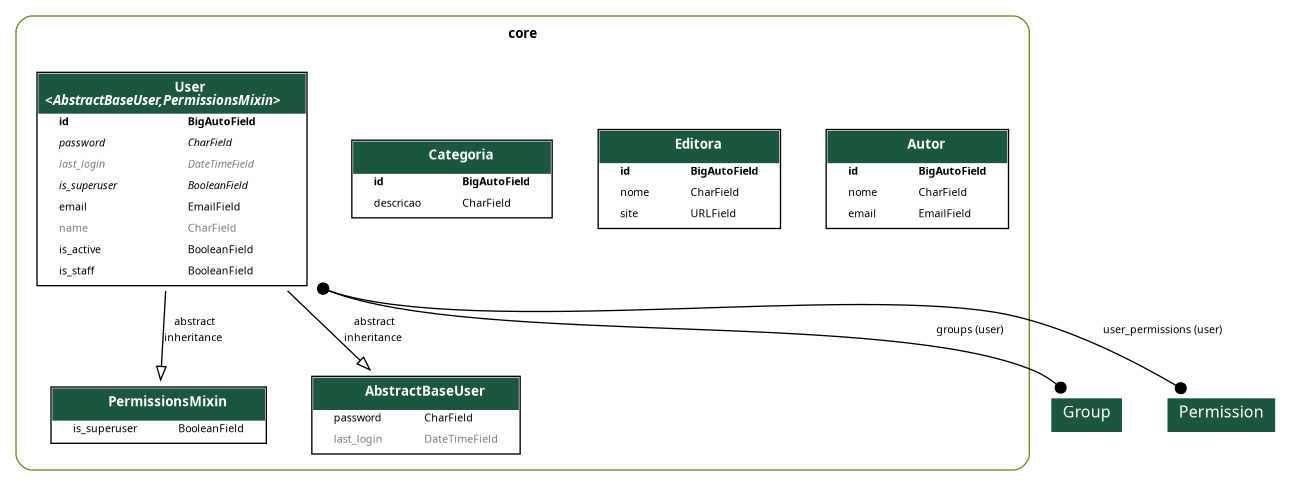
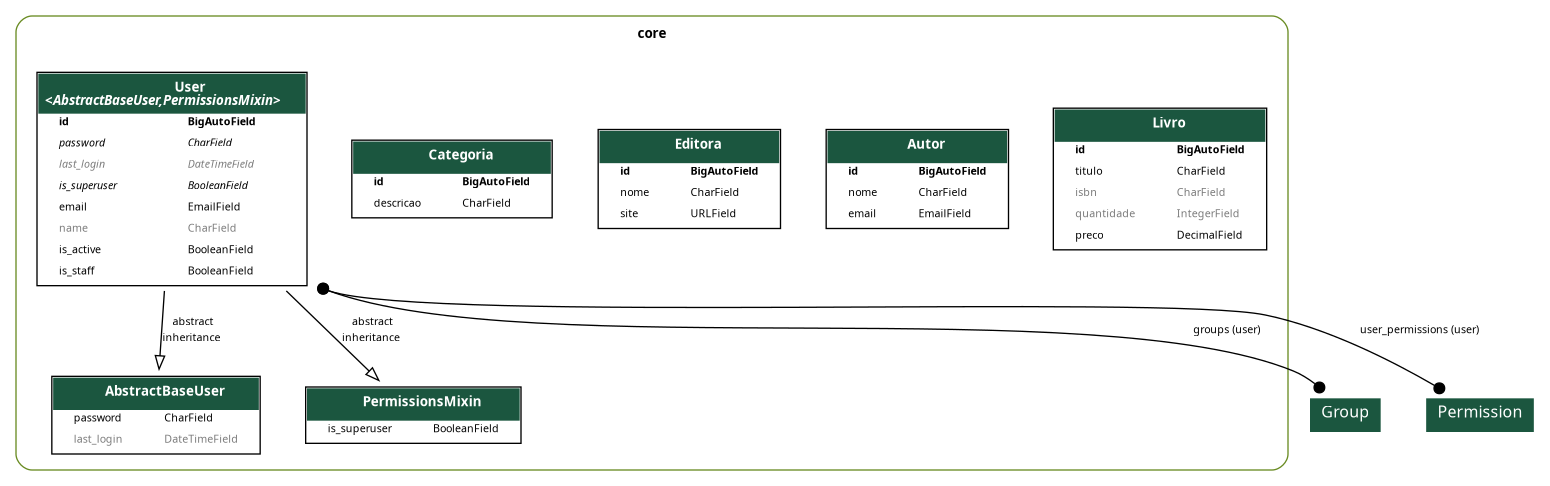
feat: criação da entidade para Livro

diff --git a/core/migrations/0009_livro.py b/core/migrations/0009_livro.py
@@ -1,0 +1,23 @@
+# Generated by Django 5.2.12 on 2026-04-25 21:05
+
+from django.db import migrations, models
+
+
+class Migration(migrations.Migration):
+
+    dependencies = [
+        ('core', '0008_autor_alter_editora_site'),
+    ]
+
+    operations = [
+        migrations.CreateModel(
+            name='Livro',
+            fields=[
+                ('id', models.BigAutoField(auto_created=True, primary_key=True, serialize=False, verbose_name='ID')),
+                ('titulo', models.CharField(max_length=255)),
+                ('isbn', models.CharField(blank=True, max_length=32, null=True)),
+                ('quantidade', models.IntegerField(blank=True, default=0, null=True)),
+                ('preco', models.DecimalField(decimal_places=2, default=0, max_digits=7)),
+            ],
+        ),
+    ]

diff --git a/app/urls.py b/app/urls.py
@@ -12,7 +12,7 @@ from rest_framework_simplejwt.views import (
     TokenVerifyView,
 )
 
-from core.views import AutorViewSet, CategoriaViewSet, EditoraViewSet, UserRegistrationView, UserViewSet
+from core.views import AutorViewSet, CategoriaViewSet, EditoraViewSet, LivroViewSet, UserRegistrationView, UserViewSet
 
 router = DefaultRouter()
 
@@ -23,6 +23,8 @@ router.register(r'usuarios', UserViewSet, basename='usuarios')
 router.register(r'editoras', EditoraViewSet, basename='editoras')
 
 router.register(r'autores', AutorViewSet, basename='autores')
+
+router.register(r'livros', LivroViewSet, basename='livros')
 
 urlpatterns = [
     path('admin/', admin.site.urls),

diff --git a/core/models/livro.py b/core/models/livro.py
@@ -1,0 +1,11 @@
+from django.db import models
+
+
+class Livro(models.Model):
+    titulo = models.CharField(max_length=255)
+    isbn = models.CharField(max_length=32, null=True, blank=True)
+    quantidade = models.IntegerField(default=0, null=True, blank=True)
+    preco = models.DecimalField(max_digits=7, decimal_places=2, default=0)
+
+    def __str__(self):
+        return f'({self.id}) {self.titulo} ({self.quantidade})'

diff --git a/core/views/livro.py b/core/views/livro.py
@@ -1,0 +1,9 @@
+from rest_framework.viewsets import ModelViewSet
+
+from core.models import Livro
+from core.serializers import LivroSerializer
+
+
+class LivroViewSet(ModelViewSet):
+    queryset = Livro.objects.all()
+    serializer_class = LivroSerializer

diff --git a/core/serializers/__init__.py b/core/serializers/__init__.py
@@ -2,3 +2,4 @@ from .user import UserRegistrationSerializer, UserSerializer
 from .categoria import CategoriaSerializer
 from .editora import EditoraSerializer
 from .autor import AutorSerializer
+from .livro import LivroSerializer

diff --git a/core/serializers/livro.py b/core/serializers/livro.py
@@ -1,0 +1,9 @@
+from rest_framework.serializers import ModelSerializer
+
+from core.models import Livro
+
+
+class LivroSerializer(ModelSerializer):
+    class Meta:
+        model = Livro
+        fields = '__all__'

diff --git a/core/views/__init__.py b/core/views/__init__.py
@@ -2,3 +2,4 @@ from .user import UserRegistrationView, UserViewSet
 from .categoria import CategoriaViewSet
 from .editora import EditoraViewSet
 from .autor import AutorViewSet
+from .livro import LivroViewSet

diff --git a/core/admin.py b/core/admin.py
@@ -55,3 +55,4 @@ admin.site.register(models.User, UserAdmin)
 admin.site.register(models.Categoria)
 admin.site.register(models.Editora)
 admin.site.register(models.Autor)
+admin.site.register(models.Livro)

diff --git a/core/models/__init__.py b/core/models/__init__.py
@@ -2,3 +2,4 @@ from .user import User
 from .categoria import Categoria
 from .editora import Editora
 from .autor import Autor
+from .livro import Livro
